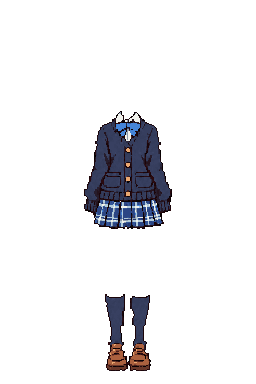
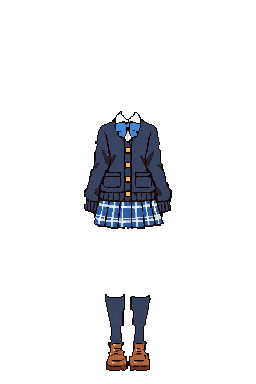
服の絵を写し直す（線画を描き直した版）v0.10.79

diff --git a/app/sw.js b/app/sw.js
@@ -1,6 +1,6 @@
 // オフライン対応：アプリ本体と絵を端末に保存して、電波がなくても開けるようにする
 // 版を上げるときは VERSION を変える（古い保存は消える）
-const VERSION = 'tabiquest-v0.10.78';
+const VERSION = 'tabiquest-v0.10.79';
 const CORE = [
   './', 'index.html', 'manifest.json', 'css/app.css', 'vendor/three.r128.min.js',
   'js/main.js', 'js/card.js', 'js/places.js', 'js/photo_places.js', 'js/plain_places.js', 'js/store.js', 'js/geo.js', 'js/conditions.js', 'js/ui.js', 'js/arrival.js', 'js/zukan.js', 'js/debug.js', 'js/mihon.js',

diff --git a/app/js/main.js b/app/js/main.js
@@ -45,7 +45,7 @@ import * as kawasakidaishi from './scenes/kawasakidaishi.js';
 import * as kamakura from './scenes/kamakura.js';
 import * as photo from './scenes/photo.js';
 
-export const VERSION = '0.10.78';
+export const VERSION = '0.10.79';
 engine.register('minatomirai', minatomirai.build);
 engine.register('chukagai', chukagai.build);
 engine.register('tokyotower', tokyotower.build);
